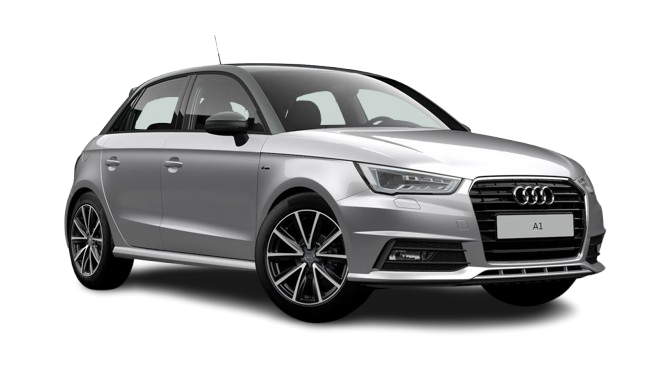
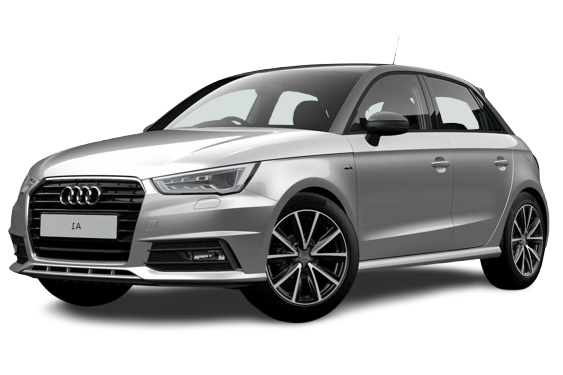
A1 model data add + Pictures disposition correction + phone responsive + table in english

diff --git a/data/models.js b/data/models.js
@@ -20,12 +20,18 @@ const models = [
                         phase: "Phase I",
                         years: { fr: "2010 - 2014", en: "2010 - 2014" },
                         images: [
-                            "./2assets/images/a1-8x-phase1-1.jpg",
-                            "./2assets/images/a1-8x-phase1-2.jpg"
+                            "./assets/images/a1-8x-phase1-1.png",
+                            "./assets/images/a1-8x-phase1-2.png",
                         ],
                         specs: [
-                            { motor: "1.2 TFSI", configuration: { fr: "4 cylindres en ligne", en: "4 in line cylinders" }, power: "86 ch", torque: "160 Nm", transmission: { fr: "Manuelle 5", en: "Manual 5" }, consumption: "5.1 L/100km", alimentation: { fr: "Turbo", en: " Turbo" } },
-                            { motor: "1.4 TFSI", configuration: { fr: "4 cylindres en ligne", en: "4 in line cylinders" }, power: "122 ch", torque: "200 Nm", transmission: { fr: "Manuelle 6 / S-Tronic 7", en: "Manual 6 &nbsp S-Tronic 7" }, consumption: "5.3 L/100km", alimentation: { fr: "Turbo", en: " Turbo" } },
+                            { motor: "1.2 TFSI", configuration: { fr: "4 cylindres en ligne", en: "4 cylinders in line" }, power: "86 ch", torque: "160 Nm", transmission: { fr: "Manuelle 5", en: "Manual 5" }, consumption: "5.1 L/100km", alimentation: { fr: "Turbo", en: " Turbo" } },
+                            { motor: "1.4 TFSI", configuration: { fr: "4 cylindres en ligne", en: "4 cylinders in line" }, power: "122 ch", torque: "200 Nm", transmission: { fr: "Manuelle 6 / S-Tronic 7", en: "Manual 6 / S-Tronic 7" }, consumption: "5.3 L/100km", alimentation: { fr: "Turbo", en: " Turbo" } },
+                            { motor: "1.4 TFSI COD", configuration: { fr: "4 cylindres en ligne", en: "4 cylinders in line" }, power: "140 ch", torque: "250 Nm", transmission: { fr: "Manuelle 6 / S-Tronic 7", en: "Manual 6 / S-Tronic 7" }, consumption: "4.9 L/100km", alimentation: { fr: "Turbo", en: " Turbo" } },
+                            { motor: "1.4 TFSI", configuration: { fr: "4 cylindres en ligne", en: "4 cylinders in line" }, power: "185 ch", torque: "250 Nm", transmission: { fr: "S-Tronic 7", en: "S-Tronic 7" }, consumption: "5.9 L/100km", alimentation: { fr: "Turbo", en: " Turbo" } },
+                            { motor: "2.0 TFSI", configuration: { fr: "4 cylindres en ligne", en: "4 cylinders in line" }, power: "231 ch", torque: "370 Nm", transmission: { fr: "Manuelle 6", en: "Manual 6" }, consumption: "8.5 L/100km", alimentation: { fr: "Turbo", en: " Turbo" } },
+                            { motor: "1.4 TDI", configuration: { fr: "3 cylindres en ligne", en: "3 cylinders in line" }, power: "90 ch", torque: "230 Nm", transmission: { fr: "Manuelle 5 / S-Tronic 7", en: "Manual 5 / S-Tronic 7" }, consumption: "3.8 L/100km", alimentation: { fr: "Turbo", en: " Turbo" } },
+                            { motor: "1.6 TDI", configuration: { fr: "4 cylindres en ligne", en: "4 cylinders in line" }, power: "105 ch", torque: "250 Nm", transmission: { fr: "Manuelle 5", en: "Manual 5" }, consumption: "3.8 L/100km", alimentation: { fr: "Turbo", en: " Turbo" } },
+                            { motor: "2.0 TDI", configuration: { fr: "4 cylindres en ligne", en: "4 cylinders in line" }, power: "143 ch", torque: "320 Nm", transmission: { fr: "Manuelle 6", en: "Manual 6" }, consumption: "4.1 L/100km", alimentation: { fr: "Turbo", en: " Turbo" } },
 
                         ],
                     },
@@ -33,14 +39,49 @@ const models = [
                         phase: "Phase II",
                         years: { fr: "2015 - 2018", en: "2015 - 2018" },
                         images: [
-                            "./assets/images/a1-8x-phase2-1.jpg",
-                            "./assets/images/a1-8x-phase2-2.jpg"
+                            "./assets/images/a1-8x-phase2-1.png",
+                            "./assets/images/a1-8x-phase2-2.png"
                         ],
                         specs: [
+                            { motor: "1.2 TFSI", configuration: { fr: "4 cylindres en ligne", en: "4 cylinders in line" }, power: "86 ch", torque: "160 Nm", transmission: { fr: "Manuelle 5", en: "Manual 5" }, consumption: "5.1 L/100km", alimentation: { fr: "Turbo", en: " Turbo" } },
+                            { motor: "1.4 TFSI", configuration: { fr: "4 cylindres en ligne", en: "4 cylinders in line" }, power: "122 ch", torque: "200 Nm", transmission: { fr: "Manuelle 6 / S-Tronic 7", en: "Manual 6 / S-Tronic 7" }, consumption: "5.3 L/100km", alimentation: { fr: "Turbo", en: " Turbo" } },
+                            { motor: "1.4 TFSI COD", configuration: { fr: "4 cylindres en ligne", en: "4 cylinders in line" }, power: "140 ch", torque: "250 Nm", transmission: { fr: "Manuelle 6 / S-Tronic 7", en: "Manual 6 / S-Tronic 7" }, consumption: "4.9 L/100km", alimentation: { fr: "Turbo", en: " Turbo" } },
+                            { motor: "1.4 TFSI", configuration: { fr: "4 cylindres en ligne", en: "4 cylinders in line" }, power: "185 ch", torque: "250 Nm", transmission: { fr: "S-Tronic 7", en: "S-Tronic 7" }, consumption: "5.9 L/100km", alimentation: { fr: "Turbo", en: " Turbo" } },
+                            { motor: "2.0 TFSI", configuration: { fr: "4 cylindres en ligne", en: "4 cylinders in line" }, power: "231 ch", torque: "370 Nm", transmission: { fr: "Manuelle 6", en: "Manual 6" }, consumption: "8.5 L/100km", alimentation: { fr: "Turbo", en: " Turbo" } },
+                            { motor: "1.4 TDI", configuration: { fr: "3 cylindres en ligne", en: "3 cylinders in line" }, power: "90 ch", torque: "230 Nm", transmission: { fr: "Manuelle 5 / S-Tronic 7", en: "Manual 5 / S-Tronic 7" }, consumption: "3.8 L/100km", alimentation: { fr: "Turbo", en: " Turbo" } },
+                            { motor: "1.6 TDI", configuration: { fr: "4 cylindres en ligne", en: "4 cylinders in line" }, power: "105 ch", torque: "250 Nm", transmission: { fr: "Manuelle 5", en: "Manual 5" }, consumption: "3.8 L/100km", alimentation: { fr: "Turbo", en: " Turbo" } },
+                            { motor: "2.0 TDI", configuration: { fr: "4 cylindres en ligne", en: "4 cylinders in line" }, power: "143 ch", torque: "320 Nm", transmission: { fr: "Manuelle 6", en: "Manual 6" }, consumption: "4.1 L/100km", alimentation: { fr: "Turbo", en: " Turbo" } },
+
                         ]
                     }
                 ]
-            }
+            },
+            {
+                name: "Audi A1",
+                code: "GB",
+                gen_number: "2",
+                period: { fr: "2019 - présent", en: "2019 - today" },
+                type: "Sportback",
+                other_types: [
+                ],
+                phases: [
+                    {
+                        phase: "Phase I",
+                        years: { fr: "2019 - présent", en: "2019 - today" },
+                        images: [
+                            "./assets/images/a1-GB-phase1-1.png",
+                            "./assets/images/a1-GB-phase1-2.png"
+                        ],
+                        specs: [
+                            { motor: "25 TFSI", configuration: { fr: "3 cylindres en ligne", en: "3 cylinders in line" }, power: "95 ch", torque: "175 Nm", transmission: { fr: "Manuelle 5 / S-Tronic 7", en: "Manual 5 / S-Tronic 7" }, consumption: "6.1 L/100km", alimentation: { fr: "Turbo", en: " Turbo" } },
+                            { motor: "30 TFSI", configuration: { fr: "3 cylindres en ligne", en: "3 cylinders in line" }, power: "116 ch", torque: "200 Nm", transmission: { fr: "Manuelle 6 / S-Tronic 7", en: "Manual 6 / S-Tronic 7" }, consumption: "6.1 L/100km", alimentation: { fr: "Turbo", en: " Turbo" } },
+                            { motor: "35 TFSI COD", configuration: { fr: "4 cylindres en ligne", en: "4 cylinders in line" }, power: "150 ch", torque: "250 Nm", transmission: { fr: "S-Tronic 7", en: "S-Tronic 7" }, consumption: "6.3 L/100km", alimentation: { fr: "Turbo", en: " Turbo" } },
+                            { motor: "35 TFSI", configuration: { fr: "4 cylindres en ligne", en: "4 cylinders in line" }, power: "200 ch", torque: "320 Nm", transmission: { fr: "S-Tronic 6", en: "S-Tronic 6" }, consumption: "7.1 L/100km", alimentation: { fr: "Turbo", en: " Turbo" } },
+
+                        ],
+                    }
+                ]
+            },
         ]
     },
     {
@@ -49,6 +90,7 @@ const models = [
             {
                 name: "Audi A3 8P",
                 code: "8P",
+                gen_number: "1",
                 period: { fr: "2003 - 2013", en: "2003 - 2013" },
                 phases: [
                     {
@@ -59,8 +101,8 @@ const models = [
                             en: "Introduction of the first generation Audi A3."
                         },
                         images: [
-                            "assets/images/a3-8p-phase1-1.jpg",
-                            "assets/images/a3-8p-phase1-2.jpg"
+                            "assets/images/a3-8p-phase1-1.png",
+                            "assets/images/a3-8p-phase1-2.png"
                         ],
                         specs: [
                             { configuration: "1.6 FSI", power: "115 ch", torque: "148 Nm", transmission: "Manuelle", consumption: "6.5 L/100km", alimentation: "Atmosphérique" },

diff --git a/js/main.js b/js/main.js
@@ -6,13 +6,27 @@ const translations = {
         title: "Audi Série A",
         period: "Période",
         specs: "Caractéristiques principales",
-        showMotorizations: "Motorisation"
+        showMotorizations: "Motorisation",
+        motor: "Moteur",
+        configuration: "Configuration",
+        power: "Puissance",
+        torque: "Couple",
+        gearbox: "Boite de vitesse",
+        cumsuption: "Consommation",
+        alimentation: "Alimentation"
     },
     en: {
         title: "Audi A Series",
         period: "Period",
         specs: "Main Features",
-        showMotorizations: "Powertrain"
+        showMotorizations: "Powertrain",
+        motor: "Motor",
+        configuration: "Configuration",
+        power: "Power",
+        torque: "Torque",
+        gearbox: "Gearbox",
+        cumsuption: "Cumsuption",
+        alimentation: "Alimentation"
     }
 };
 
@@ -73,12 +87,20 @@ function displayModelDetails(model) {
                 <p class="model-date">${phase.years[currentLanguage]}</p>
 
                 <div class="carousel">
-                    ${phase.images.map(image => `<img src="${image}" alt="${phase.phase} - ${generation.name}" class="slide">`).join('')}
+                    ${phase.images.map(image => `<img src="${image}" alt="${phase.phase} - ${generation.name}">`).join('')}
                 </div>
 
                 <button class="show-specs-button">+ ${translations[currentLanguage].showMotorizations}</button>
                 <table class="specs-table">
-                    <tr><th>Motor</th><th>Configuration</th><th>Puissance</th><th>Couple</th><th>Boîte de vitesse</th><th>Consommation</th><th>Alimentation</th></tr>
+                    <tr>
+                        <th>${translations[currentLanguage].motor}</th>
+                        <th>${translations[currentLanguage].configuration}</th>
+                        <th>${translations[currentLanguage].power}</th>
+                        <th>${translations[currentLanguage].torque}</th>
+                        <th>${translations[currentLanguage].gearbox}</th>
+                        <th>${translations[currentLanguage].cumsuption}</th>
+                        <th>${translations[currentLanguage].alimentation}</th>
+                    </tr>
                     ${phase.specs.map(spec => `
                         <tr>
                             <td>${spec.motor}</td>

diff --git a/css/styles.css b/css/styles.css
@@ -118,17 +118,20 @@ h3 {
 .phase-section {
     margin-top: 15px;
     padding: 10px;
-    border-radius: 6px;
+    border-radius: 12px;
     background: #f9f9f9;
 }
 
-
+.carousel {
+    width: 100%;
+    display: flex;
+    justify-content: space-around;
+    align-items: center;
+    flex-wrap: wrap;
+}
 
 .carousel img {
-    max-width: 50%;
-    height: auto;
-    display: block;
-    margin: 10px 0;
+    max-width: 45%;
 }
 
 .specs-overview {
@@ -162,4 +165,61 @@ h3 {
     border: 1px solid #ddd;
     padding: 8px;
     text-align: center;
+}
+
+
+@media screen and (max-width: 1280px) {
+
+    .lang-button>img {
+        width: 13px;
+    }
+
+    .model-button {
+        padding: 10px 20px;
+        font-size: x-small;
+    }
+
+    .model-details {
+        max-width: 800px;
+        margin: 20px 10px;
+    }
+
+    .model-card {
+        margin-bottom: 0px;
+    }
+
+    .model-title {
+        margin: 0;
+        font-size: 1.3rem;
+    }
+
+    .model-date {
+        font-size: 0.6rem;
+    }
+
+    .phase-section {
+        margin-top: 10px;
+    }
+
+    .show-specs-button {
+        padding: 7px 15px;
+        border-radius: 5px;
+        font-size: x-small;
+    }
+
+    .show-specs-button:hover {
+        box-shadow: none;
+    }
+
+    .specs-table {
+        width: 100%;
+        border-collapse: collapse;
+        display: none;
+    }
+
+    .specs-table th,
+    .specs-table td {
+        padding: 6px;
+        font-size: 0.4em;
+    }
 }
